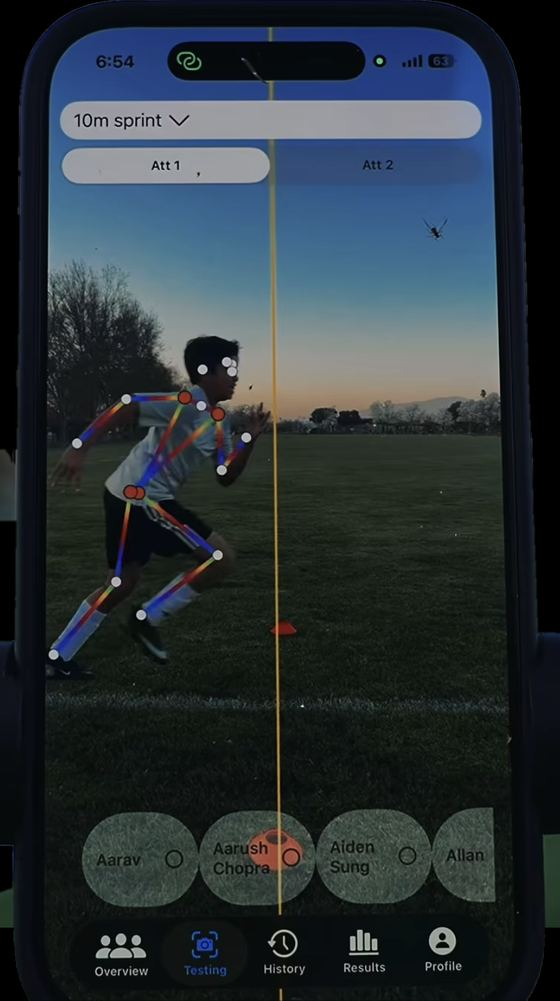
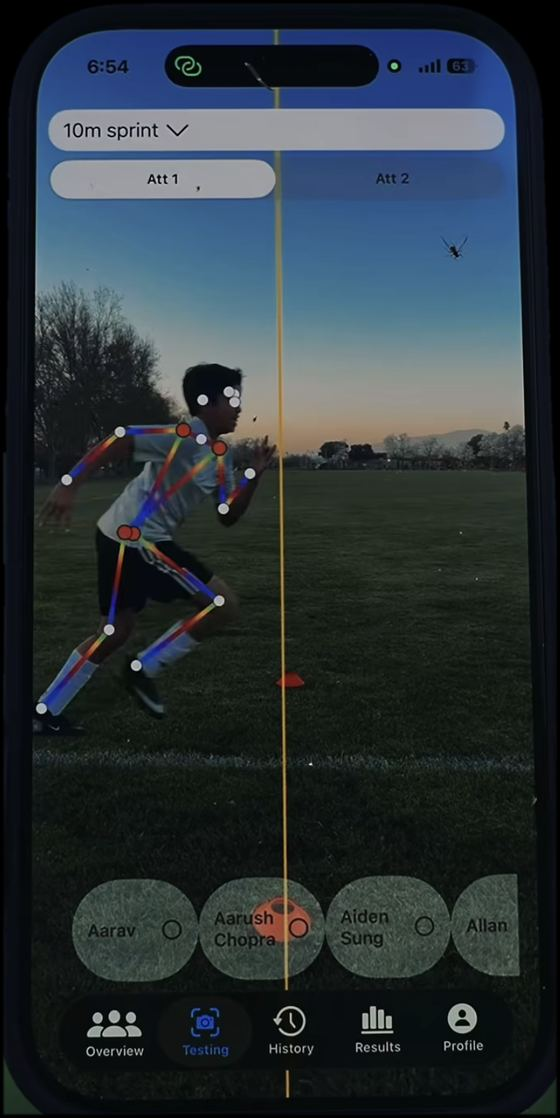
Add files via upload

diff --git a/index.html b/index.html
@@ -1048,7 +1048,7 @@ footer a:focus-visible{outline:2px solid var(--pink);outline-offset:3px}
         <span class="promo-screen">
           <picture>
             <source type="image/avif" srcset="assets/images/game1-map-340.avif 340w, assets/images/game1-map-560.avif 560w" sizes="(max-width:820px) 132px, 192px">
-            <img src="assets/images/game1-map-560.jpg" srcset="assets/images/game1-map-340.jpg 340w, assets/images/game1-map-560.jpg 560w" sizes="(max-width:820px) 132px, 192px" width="560" height="1001" loading="lazy" decoding="async" alt="Telefoon die tijdens een sprinttest een speler doormeet, met de bewegingspunten van de AI over het beeld">
+            <img src="assets/images/game1-map-560.jpg" srcset="assets/images/game1-map-340.jpg 340w, assets/images/game1-map-560.jpg 560w" sizes="(max-width:820px) 132px, 192px" width="560" height="1118" loading="lazy" decoding="async" alt="Telefoon die tijdens een sprinttest een speler doormeet, met de bewegingspunten van de AI over het beeld">
           </picture>
         </span>
       </a>
